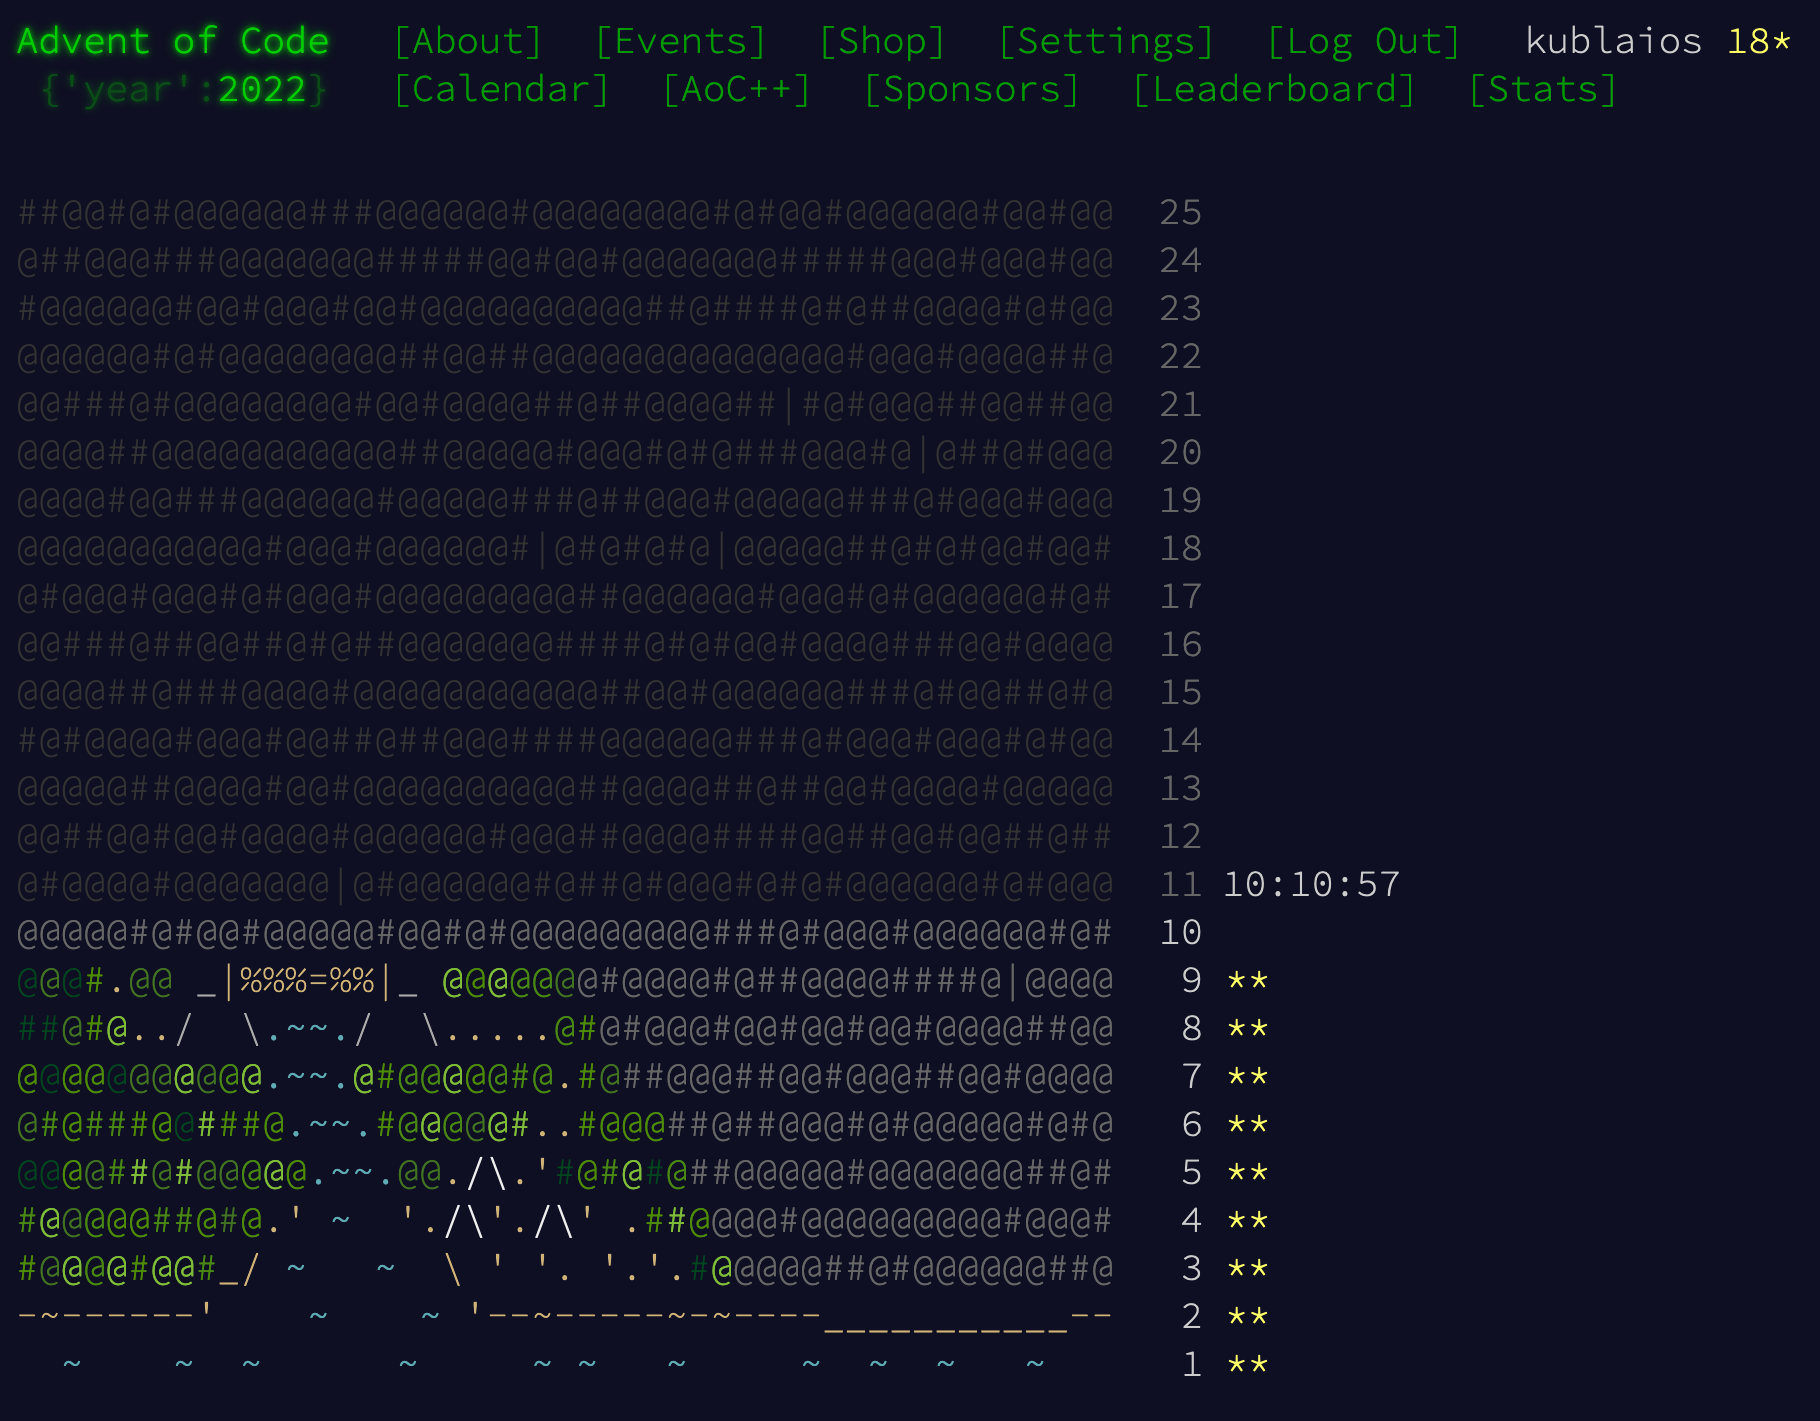
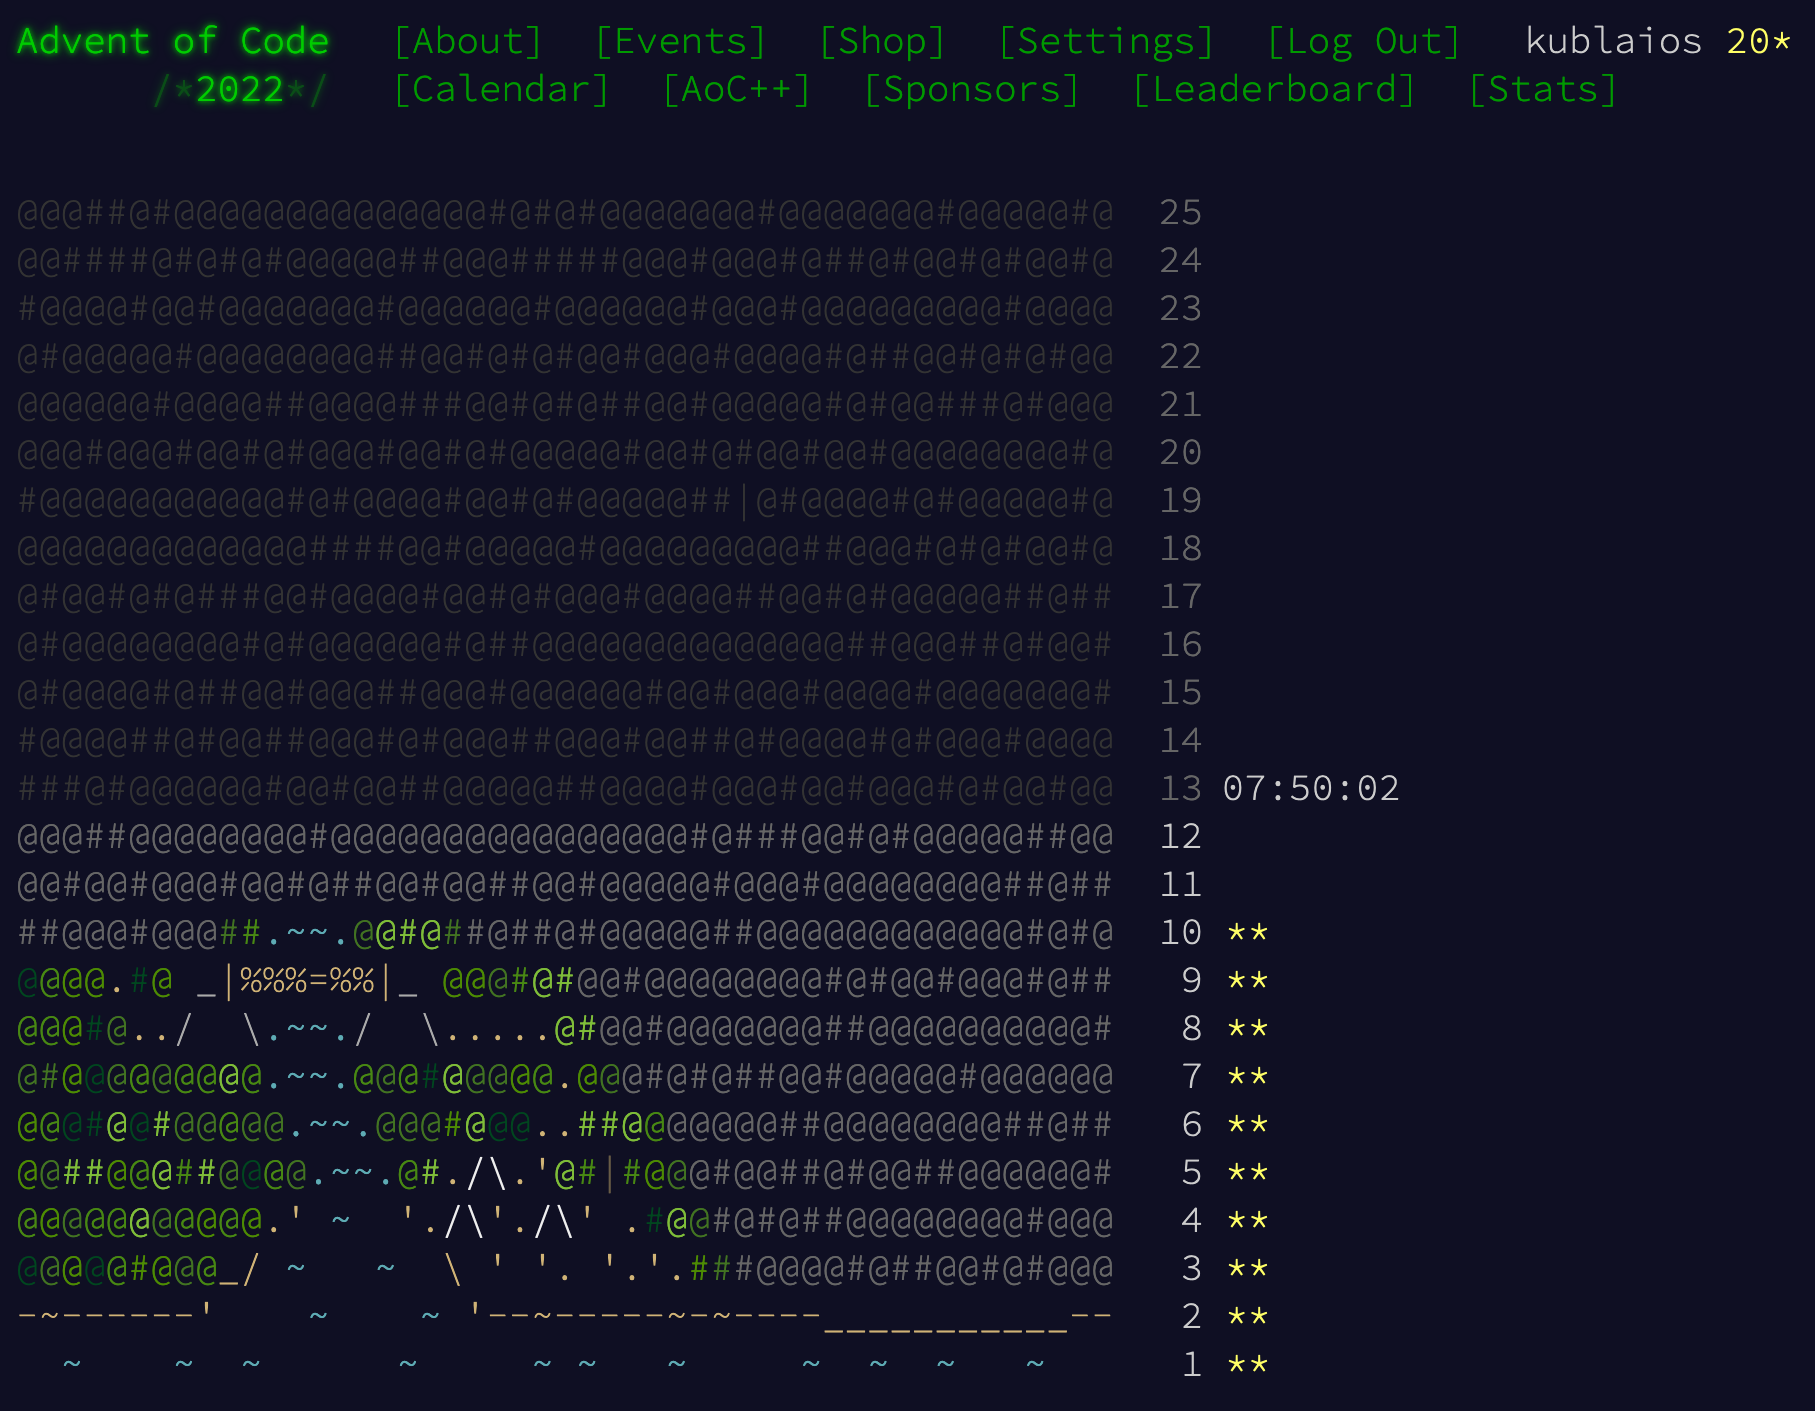
Day 10 solution part 2 (killing me softly 🫠).

diff --git a/Tests/aoc22swiftTests/helpersTests/SpriteRendererTests.swift b/Tests/aoc22swiftTests/helpersTests/SpriteRendererTests.swift
@@ -1,0 +1,36 @@
+//
+// Created by Kubilay Erdogan on 2022-12-12.
+//
+
+import XCTest
+@testable import aoc22swift
+
+final class SpriteRendererTests: XCTestCase {
+    func testRendersHorizontalLineAsBits() {
+        // "..###"
+        let renderer = SpriteRenderer(spritePosition: 3)
+        let expected = [false, false, true, true, true]
+        XCTAssertEqual(expected, renderer.horizontalLineAsBits)
+    }
+
+    func testRendersPositionOne() {
+        // "###"
+        let renderer = SpriteRenderer(spritePosition: 1)
+        let expected = [true, true, true]
+        XCTAssertEqual(expected, renderer.horizontalLineAsBits)
+    }
+
+    func testRendersPositionZero() {
+        // "##"
+        let renderer = SpriteRenderer(spritePosition: 0)
+        let expected = [true, true]
+        XCTAssertEqual(expected, renderer.horizontalLineAsBits)
+    }
+
+    func testRendersNegativePosition() {
+        // ""
+        let renderer = SpriteRenderer(spritePosition: -1)
+        let expected: [Bool] = [true]
+        XCTAssertEqual(expected, renderer.horizontalLineAsBits)
+    }
+}

diff --git a/Sources/aoc22swift/day10/Day10Solution.swift b/Sources/aoc22swift/day10/Day10Solution.swift
@@ -31,5 +31,29 @@ enum Day10 {
 
             return sumOfXRegisters
         }
+
+        func partTwo() -> String {
+            let commands = inputProvider.input.components(separatedBy: "\n").map { CPUCommand($0) }
+            var cpu = CPU()
+            var output = ""
+            cpu.clockObserver = { clock, bits in
+                let column = clock % 40
+                if column >= bits.count {
+                    output += "."
+                } else {
+                    output += bits[column] ? "#" : "."
+                }
+            }
+            cpu.execute(commands)
+            // Add line break after every 40th character.
+            var outputWithLineBreaks = ""
+            for i in 0..<output.count {
+                outputWithLineBreaks += String(output[output.index(output.startIndex, offsetBy: i)])
+                if (i+1) % 40 == 0 {
+                    outputWithLineBreaks += "\n"
+                }
+            }
+            return outputWithLineBreaks
+        }
     }
 }

diff --git a/Sources/aoc22swift/helpers/CPU.swift b/Sources/aoc22swift/helpers/CPU.swift
@@ -12,6 +12,7 @@ struct CPU {
     }
     var xRegister = 1
     var xRegisterHistory = [1]
+    var clockObserver: ((Int, [Bool]) -> Void)?
 
     mutating func execute(_ commands: [CPUCommand]) {
         for command in commands {
@@ -20,13 +21,21 @@ struct CPU {
     }
 
     mutating private func execute(_ command: CPUCommand) {
+        func tick(operation: () -> Void = {}) {
+            clockObserver?(clock, SpriteRenderer(spritePosition: xRegister).horizontalLineAsBits)
+            // Each tick happens after the operation is done
+            operation()
+            clock += 1
+        }
+
         switch command {
         case .noop:
-            clock += 1
+            tick()
         case .addx(let value):
-            clock += 1
-            xRegister += value
-            clock += 1
+            tick()
+            tick {
+                xRegister += value
+            }
         }
     }
 }

diff --git a/Tests/aoc22swiftTests/day10Tests.swift b/Tests/aoc22swiftTests/day10Tests.swift
@@ -159,4 +159,10 @@ final class Day10Tests: XCTestCase {
         let solution = Day10.Solution(inputProvider: InputProvider(rawInput: input))
         XCTAssertEqual(solution.partOne(), 13140)
     }
+
+    func testPartTwo() {
+        let solution = Day10.Solution(inputProvider: InputProvider(rawInput: input))
+        XCTAssertEqual(solution.partTwo().replacingOccurrences(of: "\n", with: ""), "##..##..##..##..##..##..##..##..##..##..###...###...###...###...###...###...###.####....####....####....####....####....#####.....#####.....#####.....#####.....######......######......######......###########.......#######.......#######....."
+        )
+    }
 }

diff --git a/Sources/aoc22swift/helpers/SpriteRenderer.swift b/Sources/aoc22swift/helpers/SpriteRenderer.swift
@@ -1,0 +1,28 @@
+//
+// Created by Kubilay Erdogan on 2022-12-12.
+//
+
+import Foundation
+
+struct SpriteRenderer {
+    let spritePosition: Int
+
+    var horizontalLineAsBits: [Bool] {
+        guard spritePosition > 0 else {
+            switch spritePosition {
+            case 0:
+                return [true, true]
+            case -1:
+                return [true]
+            default:
+                return []
+            }
+        }
+        var bits: [Bool] = []
+        for _ in 0..<(spritePosition-1) {
+            bits.append(false)
+        }
+        bits += [true, true, true]
+        return bits
+    }
+}

diff --git a/Sources/aoc22swift/aoc22swift.swift b/Sources/aoc22swift/aoc22swift.swift
@@ -4,6 +4,6 @@ public struct aoc22swift {
         // TODO: Maybe refactor this to use command line arguments
         let solution = Day10.Solution()
         print("Solution Part One: \(solution.partOne())")
-//        print("Solution Part Two: \(solution.partTwo())")
+        print("Solution Part Two: \n\(solution.partTwo())")
     }
 }
